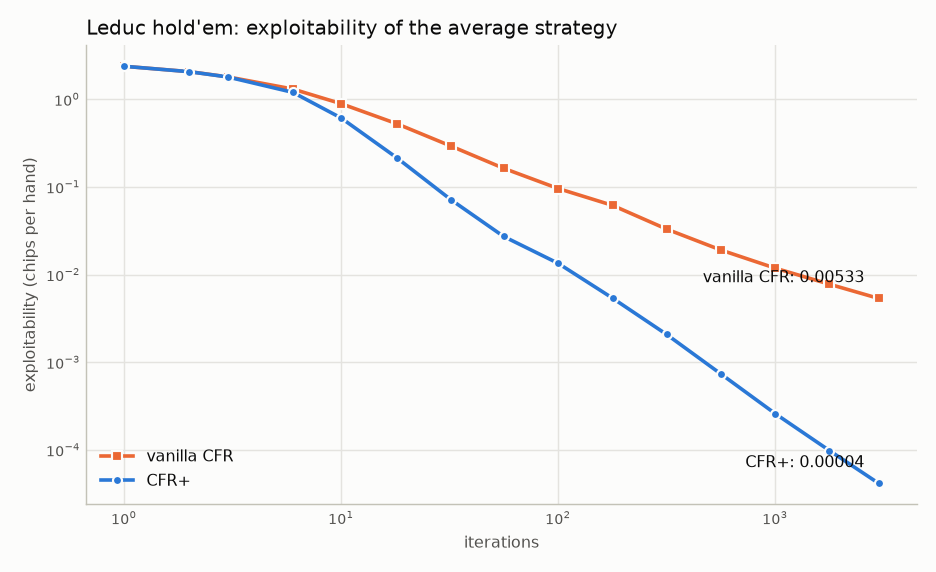
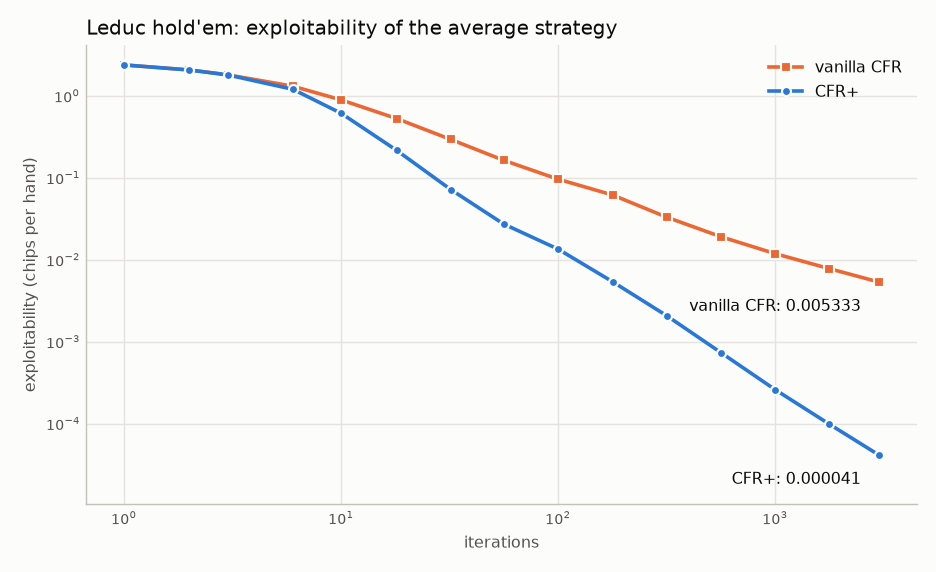
reports: Leduc hold'em (CFR+ vs vanilla CFR)

diff --git a/reports/games/leduc.md b/reports/games/leduc.md
@@ -2,7 +2,7 @@
 
 ## Limitations (read first)
 
-- Leduc hold'em is still a toy: 6 cards and two betting rounds. It is about 24 times larger than Kuhn poker in information sets, not a step towards real poker sizes.
+- Leduc hold'em is still a toy: 6 cards and two betting rounds. It has 24 times the information sets of Kuhn poker (288 against 12), which is not a step towards real poker sizes.
 - The strategy is an approximation after a finite number of iterations. No exact equilibrium and no reference game value from a source is used; the evidence is the exploitability, computed by an exact best response.
 - The best-response routine and the solver share one tree. The cross-checks below run strategies through a second, slow evaluator that deals actual cards; they confirm values, and that each best response is achievable, not that it is the largest possible.
 - Exploitability here is the average of the two best-response gains (NashConv / 2), in chips per hand, with antes of 1.
@@ -46,4 +46,4 @@ Figure: `leduc_exploitability.png` (log-log).
 | 3,000 | 0.000041 | 0.005333 | -0.085605 |
 
 ---
-_run 20261110T060000Z-709c0b · commit f94a174f03b2 (dirty) · config 0a1d37906cc8 · seed 20261109_
+_run 20261110T060333Z-20d484 · commit 5321ef890a59 · config 0a1d37906cc8 · seed 20261109_
